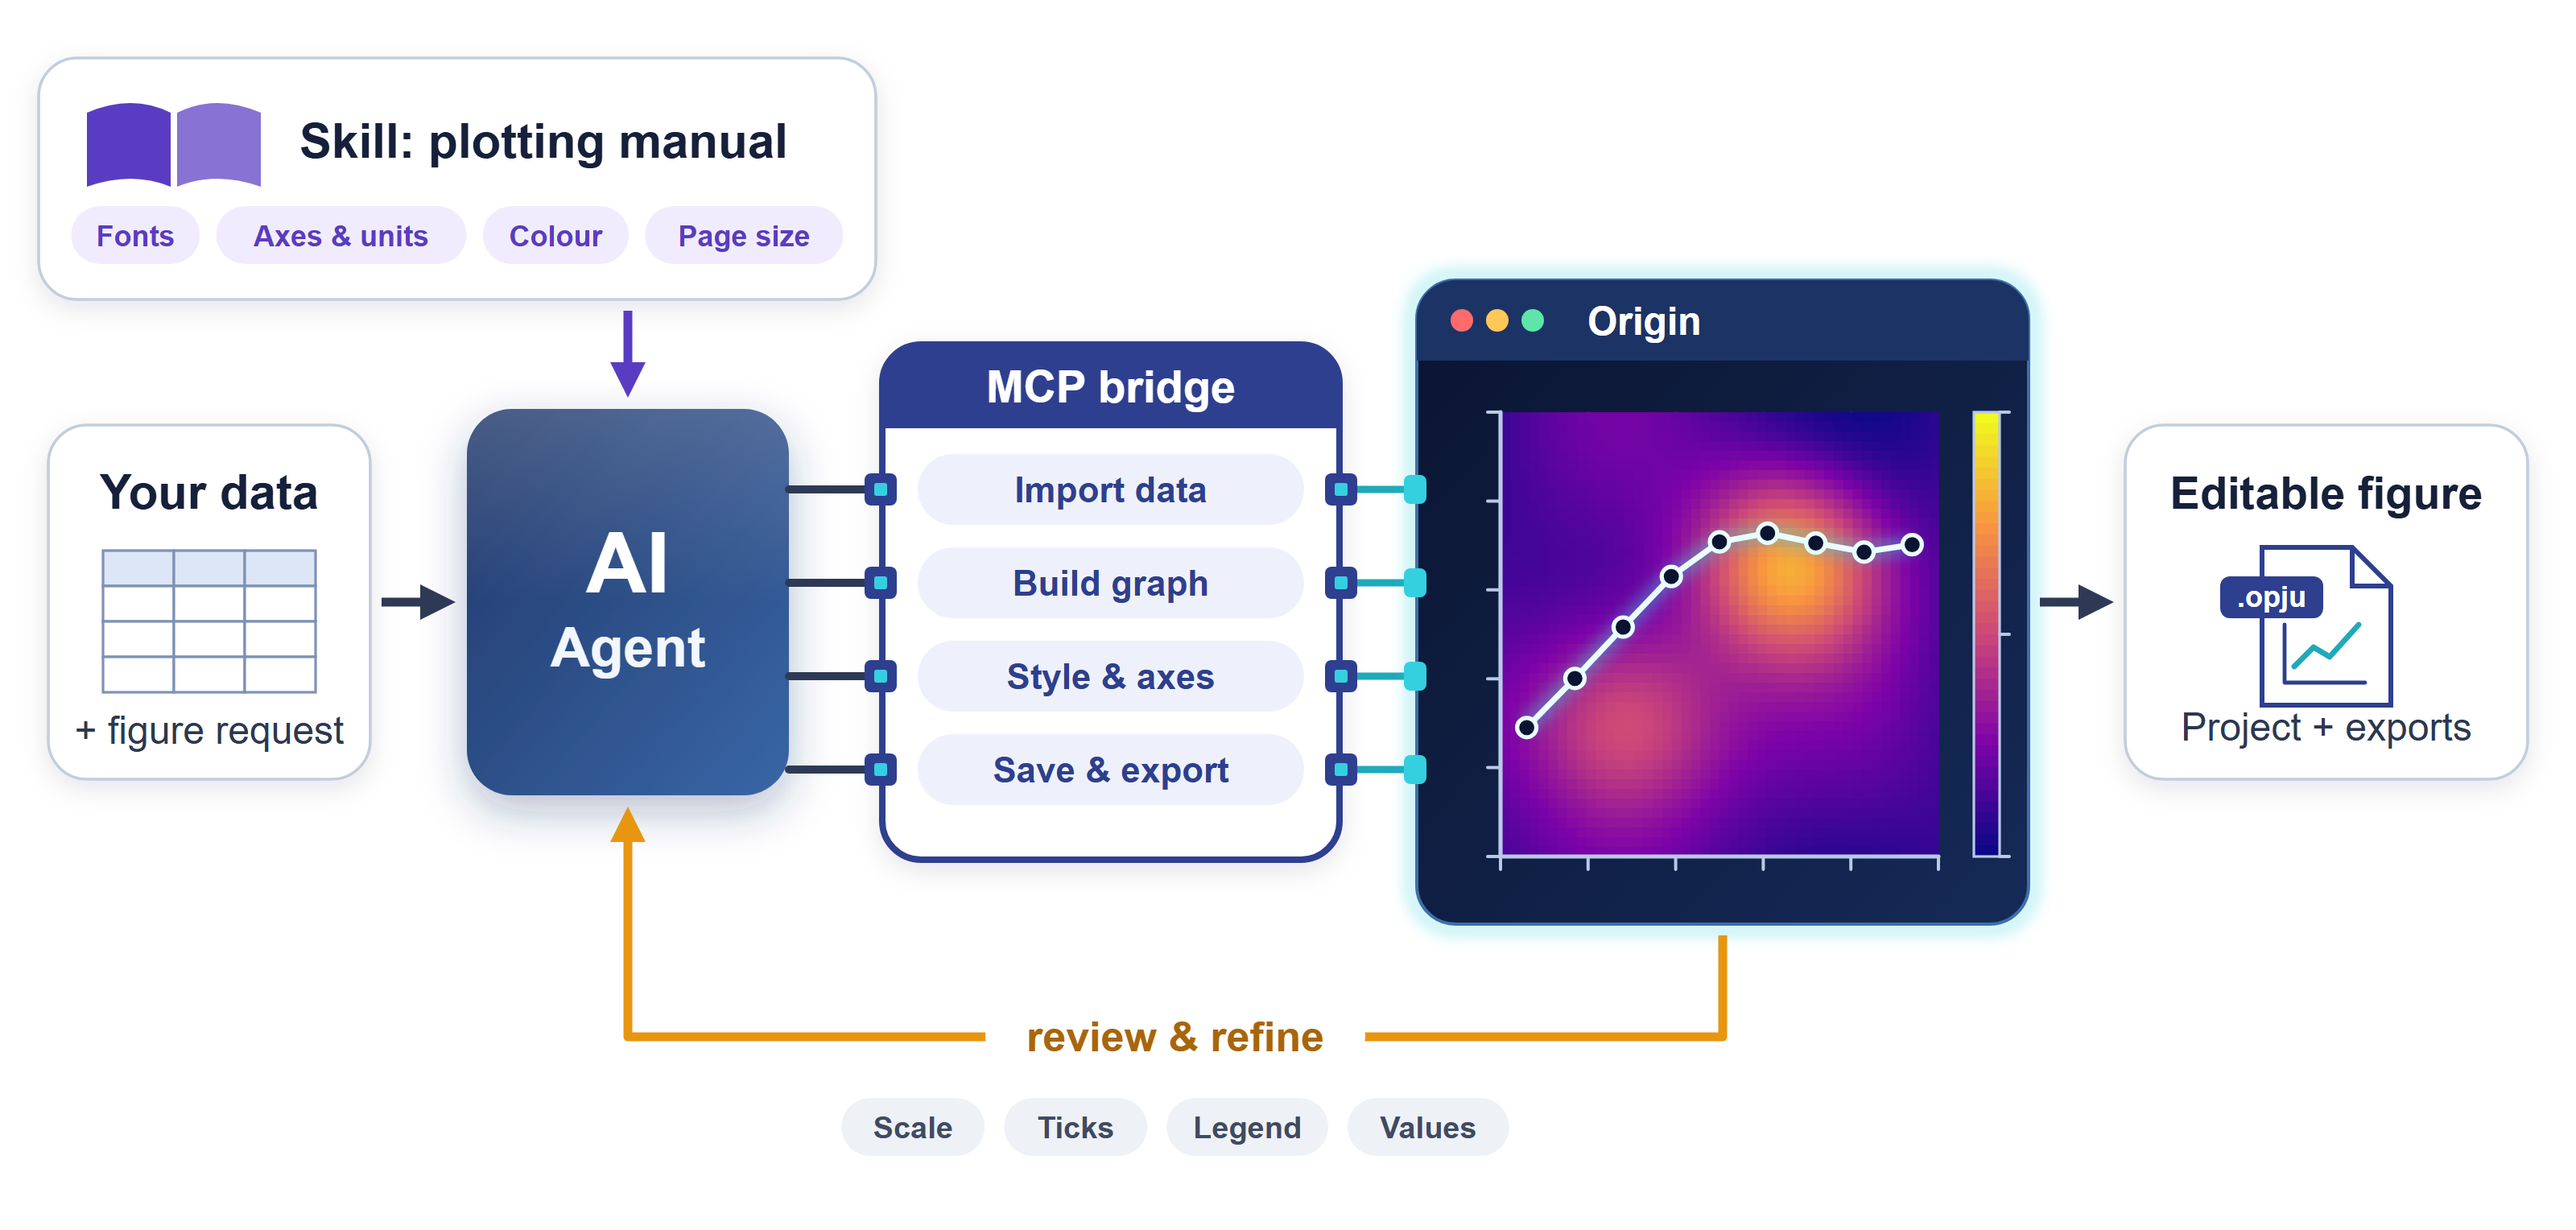
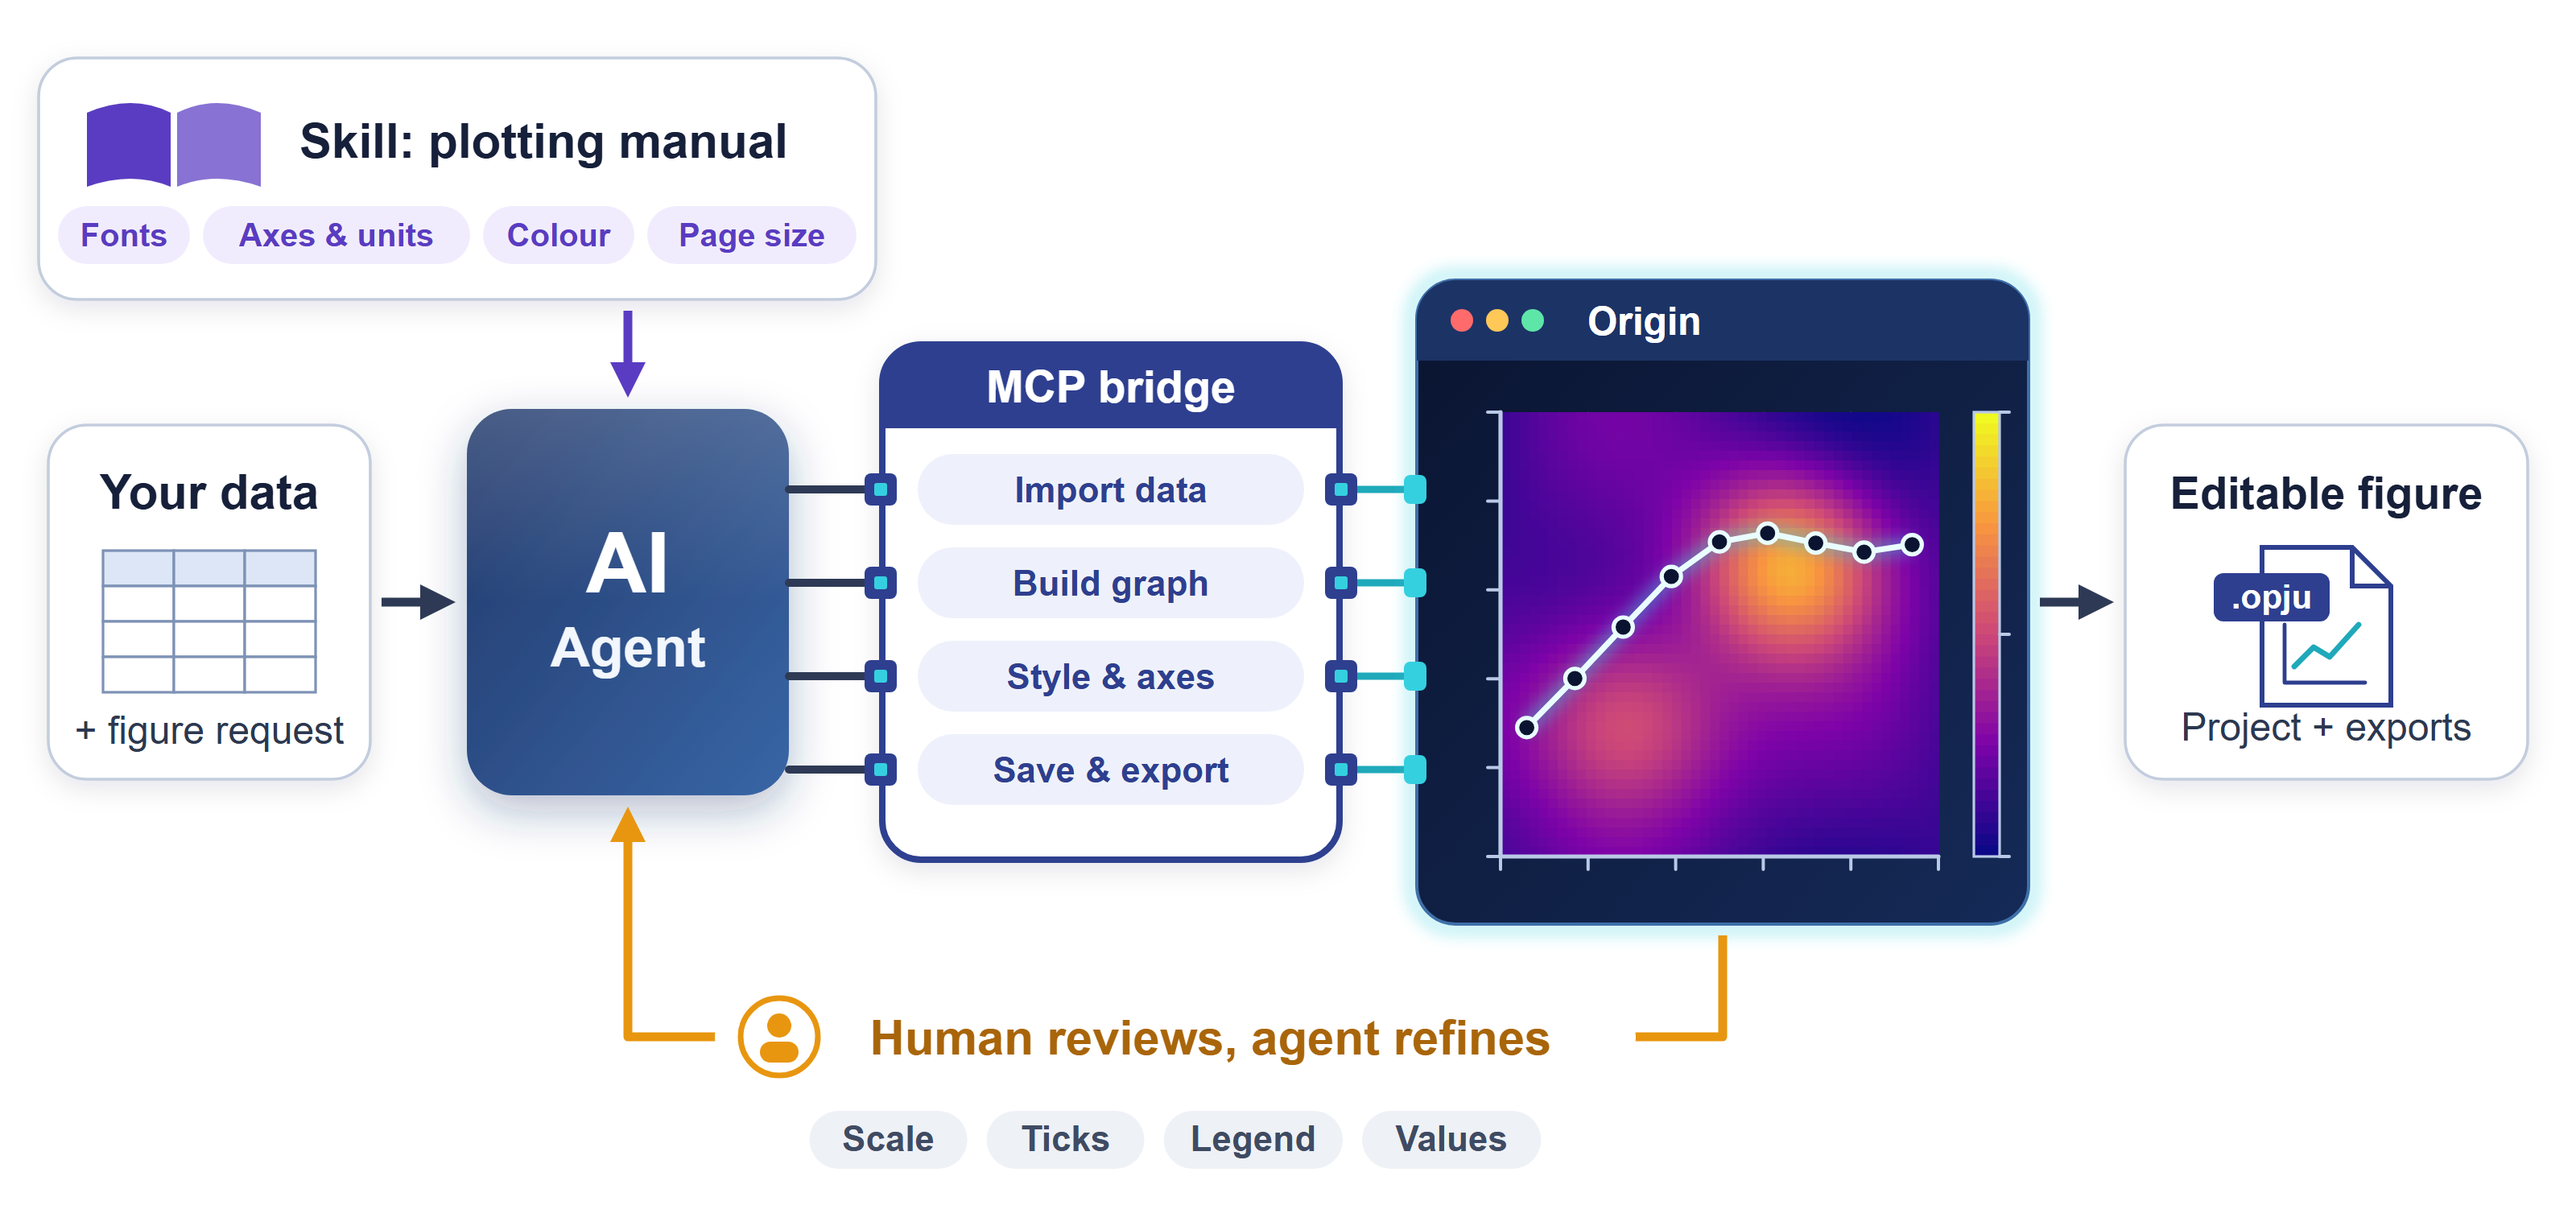
Clarify human review in the Origin workflow illustration

diff --git a/assets/source/build_overview.py b/assets/source/build_overview.py
@@ -115,7 +115,7 @@ add(f'<path d="M{bx} {by + 6} q28 -12 52 0 v46 q-24 -10 -52 0z" fill="{C["skill"
 add(f'<path d="M{bx + 56} {by + 6} q24 -12 52 0 v46 q-28 -10 -52 0z" fill="{C["skill"]}" opacity=".72"/>')
 text(SK["x"] + 162, SK["y"] + 62, "Skill: plotting manual", 30)
 chips(SK["x"] + SK["w"] / 2, SK["y"] + 92, ["Fonts", "Axes & units", "Colour", "Page size"],
-      18, C["skillTint"], C["skill"], pad=26, gap=10)
+      20, C["skillTint"], C["skill"], pad=22, gap=8)
 
 # ---------- agent ----------
 add(f'<rect x="{AG["x"]}" y="{AG["y"]}" width="{AG["w"]}" height="{AG["h"]}" rx="28" fill="url(#leadGrad)" filter="url(#leadShadow)"/>')
@@ -199,8 +199,8 @@ add(f'<path d="M{dx} {dy} h56 l24 24 v74 h-80z" fill="#FFFFFF" stroke="{C["mcp"]
 add(f'<path d="M{dx + 56} {dy} v24 h24" fill="none" stroke="{C["mcp"]}" stroke-width="3"/>')
 line(f"M{dx + 14} {dy + 84}v-36M{dx + 14} {dy + 84}h50", C["mcp"], 2.4)
 line(f"M{dx + 20} {dy + 74} l12 -12 l10 6 l18 -20", "#1FA9BA", 3.4)
-add(f'<rect x="{dx - 26}" y="{dy + 18}" width="64" height="26" rx="6" fill="{C["mcp"]}"/>')
-text(dx + 6, dy + 37, ".opju", 18, 700, "#FFFFFF", "middle")
+add(f'<rect x="{dx - 30}" y="{dy + 16}" width="72" height="30" rx="6" fill="{C["mcp"]}"/>')
+text(dx + 6, dy + 38, ".opju", 21, 700, "#FFFFFF", "middle")
 text(ocx, OUT["y"] + 196, "Project + exports", 24, 400, C["sub"], "middle")
 
 # ---------- flow arrows ----------
@@ -212,9 +212,15 @@ arrow([(ox + ow + g, MID), (OUT["x"] - g, MID)])
 ly = 720
 arrow([(ox + ow / 2, oy + oh + g), (ox + ow / 2, ly), (acx, ly), (acx, AG["y"] + AG["h"] + g)], C["amber"])
 lcx = (acx + ox + ow / 2) / 2
-add(f'<rect x="{f(lcx - 118)}" y="{ly - 22}" width="236" height="44" rx="22" fill="#FFFFFF"/>')
-text(lcx, ly + 9, "review & refine", 26, 700, C["amberText"], "middle")
-chips(lcx, ly + 38, ["Scale", "Ticks", "Legend", "Values"], 19)
+# the loop label carries the human: a person reviews the figure, the agent refines it
+add(f'<rect x="{f(lcx - 286)}" y="{ly - 30}" width="572" height="60" rx="30" fill="#FFFFFF"/>')
+# person mark inside a ring, sized to match the 30 px label
+pcx = lcx - 246
+add(f'<circle cx="{f(pcx)}" cy="{ly}" r="24" fill="#FFFFFF" stroke="{C["amber"]}" stroke-width="3.5"/>')
+add(f'<circle cx="{f(pcx)}" cy="{ly - 7}" r="7.5" fill="{C["amber"]}"/>')
+add(f'<rect x="{f(pcx - 12)}" y="{ly + 3}" width="24" height="13" rx="6.5" fill="{C["amber"]}"/>')
+text(lcx + 22, ly + 11, "Human reviews, agent refines", 30, 700, C["amberText"], "middle")
+chips(lcx, ly + 46, ["Scale", "Ticks", "Legend", "Values"], 22)
 
 defs = f"""<defs>
   <linearGradient id="leadGrad" x1="0" y1="0" x2="1" y2="1"><stop offset="0" stop-color="{C['lead0']}"/><stop offset="1" stop-color="{C['lead1']}"/></linearGradient>
